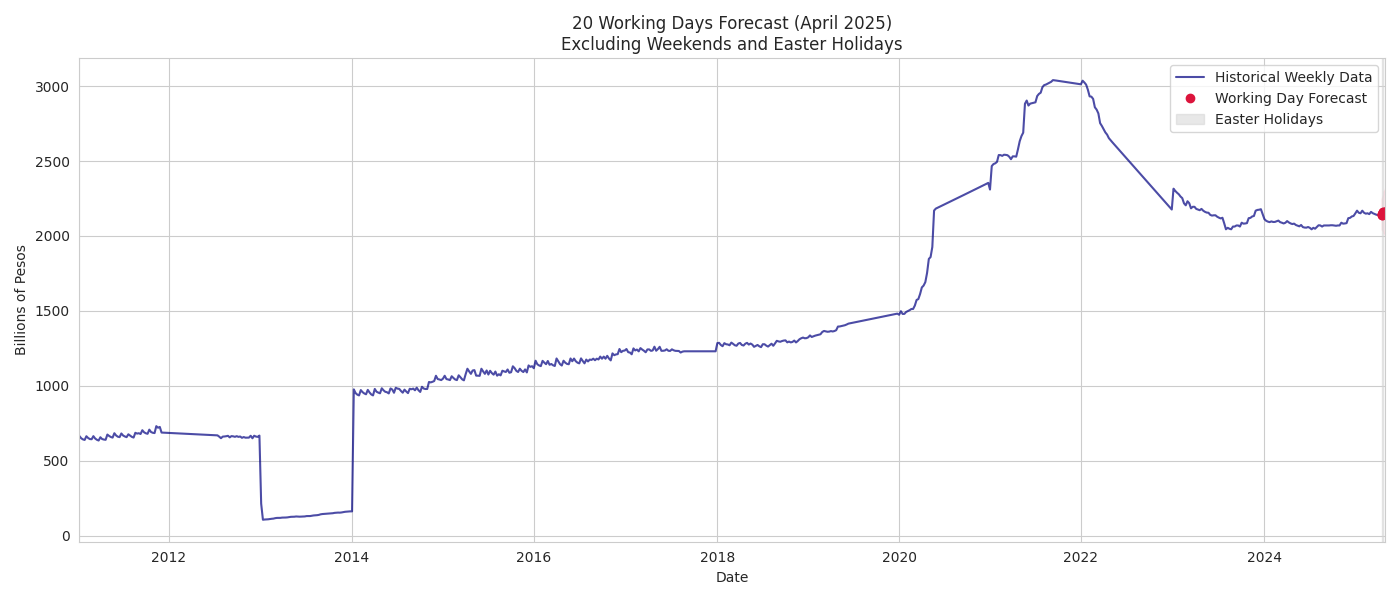
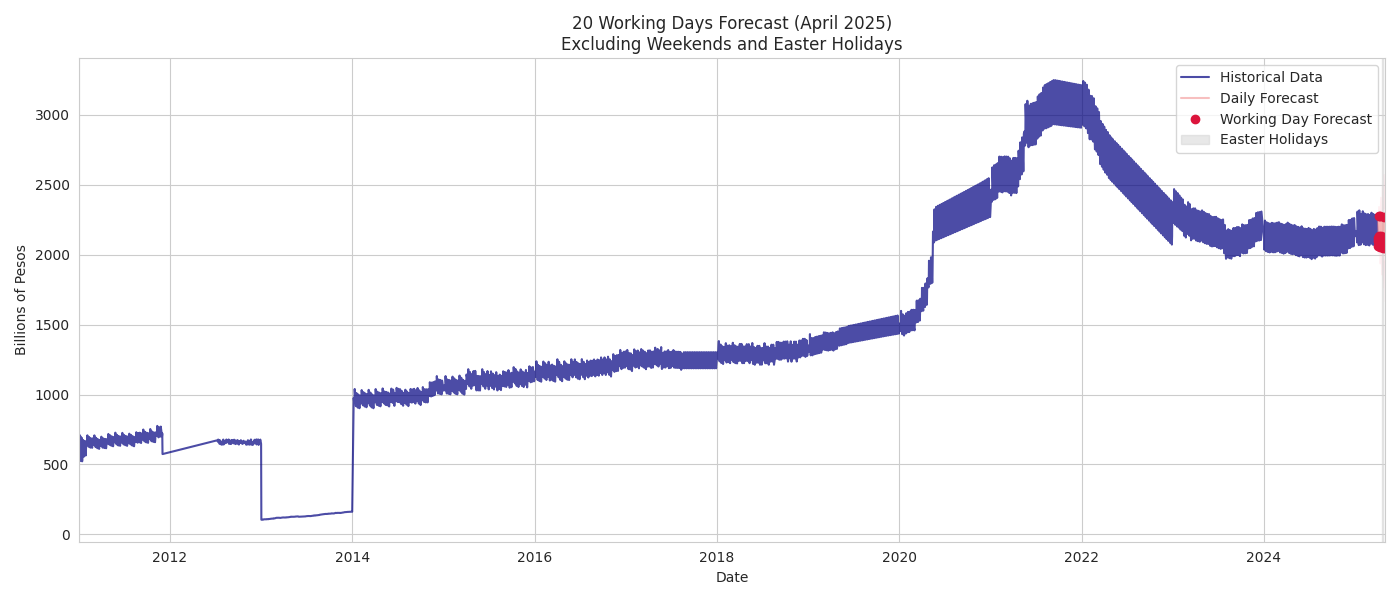
Completed the project

diff --git a/analysis2.py b/analysis2.py
@@ -1,0 +1,240 @@
+import pandas as pd
+import numpy as np
+import matplotlib.pyplot as plt
+import seaborn as sns
+from statsmodels.tsa.seasonal import seasonal_decompose
+from statsmodels.graphics.tsaplots import plot_acf, plot_pacf
+from statsmodels.tsa.statespace.sarimax import SARIMAX
+from sklearn.metrics import mean_absolute_error, mean_squared_error
+from datetime import timedelta, datetime
+
+# Set random seed for reproducibility
+np.random.seed(42)
+sns.set_style("whitegrid")
+
+def load_and_prepare_data(filepath):
+    """Load and prepare the dataset with proper frequency"""
+    df = pd.read_excel(filepath, parse_dates=['Date'], index_col='Date')
+    df.columns = ['CIC']
+    
+    # Ensure the index has daily frequency
+    df = df.asfreq('D')
+    
+    # Basic data validation
+    print("\nMissing values before processing:", df.isnull().sum())
+    if df.isnull().sum().any():
+        print("Interpolating missing values...")
+        df = df.interpolate(method='time')
+        print("Missing values after processing:", df.isnull().sum())
+    
+    return df
+
+def explore_data(df):
+    """Perform exploratory data analysis"""
+    print("\n=== Data Summary ===")
+    print(df.describe())
+    
+    # Plot raw data
+    plt.figure(figsize=(14, 6))
+    df['CIC'].plot(title='Currency in Circulation (2011-2025)', color='navy')
+    plt.ylabel('Billions of Pesos')
+    plt.grid(True)
+    plt.tight_layout()
+    plt.savefig('Currency_in_Circulation_(2011-2025).png')
+    
+    return df
+
+def analyze_time_components(df):
+    """Analyze time series components"""
+    print("\n=== Time Series Decomposition ===")
+    
+    if df.isnull().sum().any():
+        print("Warning: Missing values found in data. Interpolating...")
+        df = df.interpolate(method='time')
+    
+    try:
+        # Using 7-day period for weekly seasonality
+        decomposition = seasonal_decompose(df['CIC'], model='additive', period=7, extrapolate_trend='freq')
+        fig = decomposition.plot()
+        fig.set_size_inches(14, 8)
+        plt.tight_layout()
+        plt.savefig('first_analized_time_series.png')
+    except ValueError as e:
+        print(f"Decomposition error: {str(e)}")
+        return df
+    
+    # Stationarity check
+    from statsmodels.tsa.stattools import adfuller
+    adf_result = adfuller(df['CIC'].dropna())
+    print(f'ADF Statistic: {adf_result[0]:.4f}')
+    print(f'p-value: {adf_result[1]:.4f}')
+    print('Critical Values:')
+    for key, value in adf_result[4].items():
+        print(f'\t{key}: {value:.4f}')
+    
+    # ACF/PACF plots
+    fig, (ax1, ax2) = plt.subplots(2, 1, figsize=(12, 8))
+    plot_acf(df['CIC'].dropna(), lags=60, ax=ax1)
+    plot_pacf(df['CIC'].dropna(), lags=60, ax=ax2)
+    plt.tight_layout()
+    plt.savefig('second_analized_time_series.png')
+    
+    return df
+
+def train_and_evaluate_model(df):
+    """Train and evaluate SARIMA model on daily data"""
+    print("\n=== Model Training ===")
+    # Train-test split (last 60 days for testing)
+    train = df.iloc[:-60]
+    test = df.iloc[-60:]
+    
+    # Model parameters - adjusted for daily data
+    p, d, q = 1, 1, 1
+    P, D, Q, m = 1, 1, 1, 7  # Weekly seasonality
+    
+    # Fit SARIMA model with frequency information
+    model = SARIMAX(train['CIC'],
+                   order=(p, d, q),
+                   seasonal_order=(P, D, Q, m),
+                   enforce_stationarity=False,
+                   enforce_invertibility=False,
+                   freq='D')
+    
+    model_fit = model.fit(disp=False)
+    print(model_fit.summary())
+    
+    # Forecast and evaluate
+    forecast = model_fit.get_forecast(steps=len(test))
+    forecast_values = forecast.predicted_mean
+    
+    # Ensure we align the indices properly
+    test_values = test['CIC'].reindex(forecast_values.index)
+    
+    # Calculate metrics
+    mae = mean_absolute_error(test_values, forecast_values)
+    rmse = np.sqrt(mean_squared_error(test_values, forecast_values))
+    
+    # Safe MAPE calculation
+    with np.errstate(divide='ignore', invalid='ignore'):
+        mape = np.mean(np.abs((test_values - forecast_values) / test_values)) * 100
+        mape = np.nan_to_num(mape, nan=0.0, posinf=0.0, neginf=0.0)
+    
+    print("\n=== Model Performance ===")
+    print(f'MAE: {mae:.2f}')
+    print(f'RMSE: {rmse:.2f}')
+    print(f'MAPE: {mape:.2f}%')
+    
+    # Plot test vs forecast
+    plt.figure(figsize=(14, 6))
+    plt.plot(train.index[-120:], train['CIC'].tail(120), label='Training Data', color='navy')
+    plt.plot(test.index, test['CIC'], label='Actual Values', color='darkgreen')
+    plt.plot(forecast_values.index, forecast_values, label='Forecast', color='crimson')
+    plt.fill_between(forecast.conf_int().index,
+                    forecast.conf_int().iloc[:, 0],
+                    forecast.conf_int().iloc[:, 1],
+                    color='pink', alpha=0.3)
+    plt.title('Model Evaluation on Test Set (Last 60 Days)')
+    plt.legend()
+    plt.grid(True)
+    plt.tight_layout()
+    plt.savefig('Model_Evaluation_test_set.png')
+    
+    return model_fit, (p, d, q), (P, D, Q, m)
+
+def make_daily_forecast(df, model_fit, order, seasonal_order):
+    """Generate daily forecasts for specific working days"""
+    print("\n=== Working Days Forecast (April 2025) ===")
+    
+    # Define working days (excluding weekends and holidays)
+    working_days = [
+        '2025-04-01', '2025-04-02', '2025-04-03', '2025-04-04',
+        '2025-04-07', '2025-04-08', '2025-04-09', '2025-04-10', '2025-04-11',
+        '2025-04-14', '2025-04-15', '2025-04-16', '2025-04-17',
+        '2025-04-22', '2025-04-23', '2025-04-24', '2025-04-25',
+        '2025-04-28', '2025-04-29', '2025-04-30'
+    ]
+    forecast_dates = pd.to_datetime(working_days)
+    
+    # Calculate how many days to forecast
+    last_date = df.index[-1]
+    days_needed = (forecast_dates[-1] - last_date).days
+    
+    if days_needed <= 0:
+        print("Error: Forecast dates are before the last available data point.")
+        return pd.DataFrame()
+    
+    # Fit final model on all data with frequency information
+    final_model = SARIMAX(df['CIC'],
+                         order=order,
+                         seasonal_order=seasonal_order,
+                         enforce_stationarity=False,
+                         enforce_invertibility=False,
+                         freq='D')
+    
+    final_model_fit = final_model.fit(disp=False)
+    
+    # Generate forecast for all needed days
+    forecast = final_model_fit.get_forecast(steps=days_needed)
+    
+    # Create forecast dataframe with proper dates
+    forecast_df = pd.DataFrame({
+        'Forecast': forecast.predicted_mean,
+        'Lower_CI': forecast.conf_int().iloc[:, 0],
+        'Upper_CI': forecast.conf_int().iloc[:, 1]
+    }, index=pd.date_range(start=last_date + timedelta(days=1), periods=days_needed, freq='D'))
+    
+    # Filter for our specific working days
+    daily_forecast_df = forecast_df.loc[forecast_dates]
+    
+    # Plot forecast
+    plt.figure(figsize=(14, 6))
+    df['CIC'].plot(label='Historical Data', color='navy', alpha=0.7)
+    forecast_df['Forecast'].plot(label='Daily Forecast', color='lightcoral', alpha=0.5)
+    daily_forecast_df['Forecast'].plot(label='Working Day Forecast', color='crimson', marker='o', linestyle='')
+    plt.fill_between(forecast_df.index,
+                    forecast_df['Lower_CI'],
+                    forecast_df['Upper_CI'],
+                    color='pink', alpha=0.2)
+    
+    # Highlight holidays
+    plt.axvspan(pd.to_datetime('2025-04-18'), pd.to_datetime('2025-04-21'), 
+               color='lightgray', alpha=0.5, label='Easter Holidays')
+    
+    plt.title('20 Working Days Forecast (April 2025)\nExcluding Weekends and Easter Holidays')
+    plt.ylabel('Billions of Pesos')
+    plt.legend()
+    plt.grid(True)
+    plt.tight_layout()
+    plt.savefig('20_Working_Days_Forecast_April_2025.png')
+    
+    print("\n=== Working Days Forecast Results ===")
+    print(daily_forecast_df)
+    
+    return daily_forecast_df
+
+def main():
+    """Main execution function"""
+    try:
+        # Load and prepare data
+        df = load_and_prepare_data('./data.xlsx')
+        
+        # Explore data and analyze components
+        df = explore_data(df)
+        df = analyze_time_components(df)
+        
+        # Train and evaluate model
+        model_fit, order, seasonal_order = train_and_evaluate_model(df)
+        
+        # Make daily forecasts
+        daily_forecast_df = make_daily_forecast(df, model_fit, order, seasonal_order)
+        
+        print("\n=== Final Forecast ===")
+        print(daily_forecast_df)
+        
+        print("\nAnalysis completed successfully!")
+        
+    except Exception as e:
+        print(f"\nError occurred: {str(e)}")
+
+if __name__ == "__main__":
+    main()

diff --git a/analysis.py b/analysis.py
@@ -182,87 +182,6 @@ def make_forecasts(df_weekly, model_fit, order, seasonal_order):
     return forecast_df
 
 
-def make_daily_forecast(df_weekly, model_fit, order, seasonal_order):
-    """Generate daily forecasts for the next 20 working days in April 2025, excluding weekends and Easter holidays"""
-    print("\n=== Working Days Forecast (April 2025) ===")
-    
-    # Define the specific working days (excluding weekends and Easter holidays)
-    working_days = [
-        '2025-04-01', '2025-04-02', '2025-04-03', '2025-04-04',
-        '2025-04-07', '2025-04-08', '2025-04-09', '2025-04-10', '2025-04-11',
-        '2025-04-14', '2025-04-15', '2025-04-16', '2025-04-17',
-        # Skip Good Friday (2025-04-18) and Easter Monday (2025-04-21)
-        '2025-04-22', '2025-04-23', '2025-04-24', '2025-04-25',
-        '2025-04-28', '2025-04-29', '2025-04-30'
-    ]
-    
-    forecast_dates = pd.to_datetime(working_days)
-    
-    # Fit final model on all data
-    final_model = SARIMAX(df_weekly['CIC'],
-                        order=order,
-                        seasonal_order=seasonal_order,
-                        enforce_stationarity=False,
-                        enforce_invertibility=False)
-    
-    final_model_fit = final_model.fit(disp=False)
-    
-    # Generate forecast (we'll forecast enough weeks to cover our period)
-    weeks_needed = 6  # Enough to cover April with buffer
-    forecast = final_model_fit.get_forecast(steps=weeks_needed)
-    
-    # Create weekly forecast dataframe
-    weekly_forecast_dates = pd.date_range(
-        start=df_weekly.index[-1] + timedelta(weeks=1),
-        periods=weeks_needed,
-        freq='W'
-    )
-    
-    weekly_forecast_df = pd.DataFrame({
-        'Forecast': forecast.predicted_mean,
-        'Lower_CI': forecast.conf_int().iloc[:, 0],
-        'Upper_CI': forecast.conf_int().iloc[:, 1]
-    }, index=weekly_forecast_dates)
-    
-    # Create complete daily index for the forecast period
-    start_date = weekly_forecast_df.index[0]
-    end_date = weekly_forecast_df.index[-1] + timedelta(days=6)  # Cover full final week
-    full_daily_index = pd.date_range(start=start_date, end=end_date, freq='D')
-    
-    # Reindex weekly data to daily and interpolate
-    daily_forecast_all = weekly_forecast_df.reindex(full_daily_index)
-    daily_forecast_all = daily_forecast_all.interpolate(method='linear')
-    
-    # Filter for our specific working days
-    daily_forecast_df = daily_forecast_all.loc[daily_forecast_all.index.intersection(forecast_dates)]
-    
-    # Plot forecast
-    plt.figure(figsize=(14, 6))
-    df_weekly['CIC'].plot(label='Historical Weekly Data', color='navy', alpha=0.7)
-    daily_forecast_df['Forecast'].plot(label='Working Day Forecast', color='crimson', marker='o', linestyle='')
-    plt.fill_between(daily_forecast_df.index,
-                    daily_forecast_df['Lower_CI'],
-                    daily_forecast_df['Upper_CI'],
-                    color='pink', alpha=0.3)
-    
-    # Highlight holidays
-    plt.axvspan(pd.to_datetime('2025-04-18'), pd.to_datetime('2025-04-21'), 
-               color='lightgray', alpha=0.5, label='Easter Holidays')
-    
-    plt.title('20 Working Days Forecast (April 2025)\nExcluding Weekends and Easter Holidays')
-    plt.ylabel('Billions of Pesos')
-    plt.legend()
-    plt.grid(True)
-    plt.tight_layout()
-    plt.savefig('20_Working_Days_Forecast_April_2025.png')
-    
-    print("\n=== Working Days Forecast Results ===")
-    print(daily_forecast_df)
-    
-    return daily_forecast_df
-
-
-
 def main():
     """Main execution function"""
     try:
@@ -278,9 +197,6 @@ def main():
         
         # Make forecasts
         forecast_df = make_forecasts(df_weekly, model_fit, order, seasonal_order)
-        
-        # Make daily forecasts
-        daily_forecast_df = make_daily_forecast(df_weekly, model_fit, order, seasonal_order)
         
         print("\nAnalysis completed successfully!")
         
